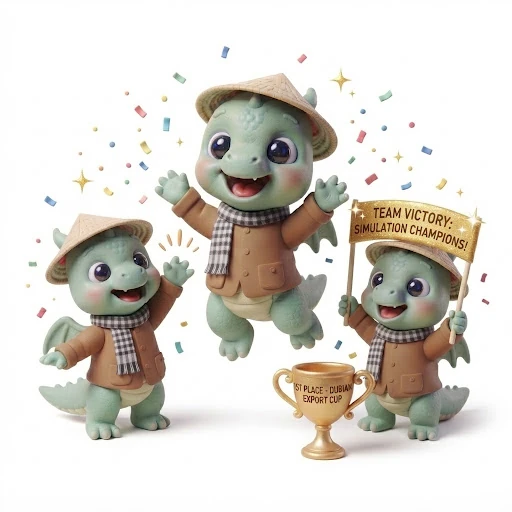
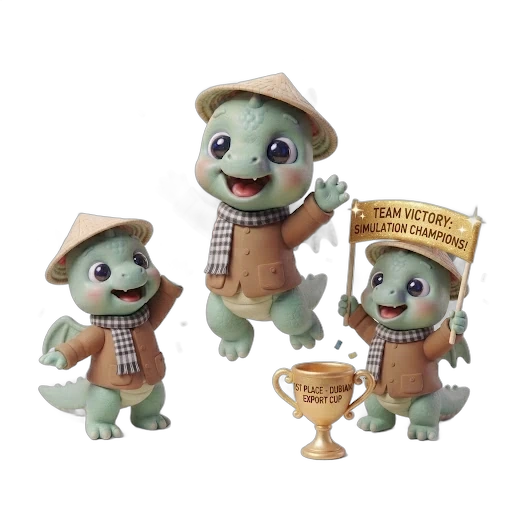
Trang chủ: khôi phục ảnh Hương và Tú Phan ở hero; nền ghe thẻ trong suốt; tách nền ảnh Tèo Soi và ghe Bến Phù Sa; sw cache bizon-v474

diff --git a/academia3d-v2.html b/academia3d-v2.html
@@ -75,7 +75,8 @@
       <div class="hp-stage" aria-hidden="true">
         <div class="hp-sun"></div>
         <div class="hp-base"></div>
-        <img src="assets/character/phu-sa/huong-tu-ghe-chonoi-v2.webp" alt="" draggable="false" style="left:20%;bottom:22%;height:66%;filter:drop-shadow(0 18px 14px rgba(110,70,30,.35));animation:bzFloat 6s ease-in-out infinite">
+        <img src="assets/character/advisors/lumina-aodai-cut.webp" alt="" draggable="false" style="left:14%;bottom:22%;height:62%;filter:drop-shadow(0 18px 14px rgba(110,70,30,.35));animation:bzFloat 6s ease-in-out infinite">
+        <img src="assets/character/anh-tu-ao-dai-welcome-cut-v2.webp" alt="" draggable="false" style="left:50%;bottom:22%;height:70%;filter:drop-shadow(0 18px 14px rgba(110,70,30,.35));animation:bzFloat 7s ease-in-out -2s infinite">
         <img src="assets/hc/stamp/vn.png" alt="" draggable="false" style="left:-6%;top:-6%;width:20%;border-radius:50%;mix-blend-mode:multiply;animation:bzRock 7s ease-in-out infinite">
         <img src="assets/hc/stamp/passport-cover.png" alt="" draggable="false" style="right:-4%;top:34%;width:30%;clip-path:inset(14% 23% 14% 23% round 9%);animation:bzFloat 5s ease-in-out -1s infinite">
       </div>
@@ -127,7 +128,7 @@
     <h2 class="hp-h2" style="max-width:18em" data-en="Learn business by making consequential decisions.">Học kinh doanh bằng những quyết định có hệ quả.</h2>
     <div class="hp-cardgrid">
       <article style="display:flex;flex-direction:column;border-radius:32px;background:var(--clay-card);padding:12px;box-shadow:inset 0 -9px 0 rgba(110,70,30,.08),inset 0 5px 0 rgba(255,255,255,.95),0 26px 36px -22px rgba(110,70,30,.5)">
-        <div id="hp-ghe-widget" style="position:relative;aspect-ratio:4/5;border-radius:24px;overflow:hidden;background:#D7ECEA;box-shadow:inset 0 -8px 0 rgba(0,0,0,.06)"></div>
+        <div id="hp-ghe-widget" style="position:relative;aspect-ratio:4/5;border-radius:24px;overflow:hidden;background:transparent;box-shadow:inset 0 -8px 0 rgba(0,0,0,.06)"></div>
         <div style="padding:16px 10px 10px;display:flex;flex-direction:column;gap:8px;flex:1">
           <div style="font-size:11px;font-weight:800;letter-spacing:.12em;color:var(--clay-accent)" data-en="TIER 1 · START HERE">BẬC 1 · BẮT ĐẦU Ở ĐÂY</div>
           <h3 style="margin:0;font-family:var(--clay-head);font-weight:800;font-size:28px;line-height:1.14">Bến Phù Sa</h3>
@@ -311,7 +312,7 @@ document.addEventListener('DOMContentLoaded', function(){
       if (!entry.isIntersecting) return;
       io.disconnect();
       import('./js/ghe-phu-sa.js').then(function(m){
-        return m.mountGhe(el, { style: '3d', autorotate: true, water: false, background: '#D7ECEA' });
+        return m.mountGhe(el, { style: '3d', autorotate: true, water: false, background: 'transparent' });
       }).catch(function(){ /* ảnh tĩnh vẫn còn sẵn trong thẻ, không cần fallback thêm */ });
     });
   }, { rootMargin: '200px' });

diff --git a/index.html b/index.html
@@ -75,7 +75,8 @@
       <div class="hp-stage" aria-hidden="true">
         <div class="hp-sun"></div>
         <div class="hp-base"></div>
-        <img src="assets/character/phu-sa/huong-tu-ghe-chonoi-v2.webp" alt="" draggable="false" style="left:20%;bottom:22%;height:66%;filter:drop-shadow(0 18px 14px rgba(110,70,30,.35));animation:bzFloat 6s ease-in-out infinite">
+        <img src="assets/character/advisors/lumina-aodai-cut.webp" alt="" draggable="false" style="left:14%;bottom:22%;height:62%;filter:drop-shadow(0 18px 14px rgba(110,70,30,.35));animation:bzFloat 6s ease-in-out infinite">
+        <img src="assets/character/anh-tu-ao-dai-welcome-cut-v2.webp" alt="" draggable="false" style="left:50%;bottom:22%;height:70%;filter:drop-shadow(0 18px 14px rgba(110,70,30,.35));animation:bzFloat 7s ease-in-out -2s infinite">
         <img src="assets/hc/stamp/vn.png" alt="" draggable="false" style="left:-6%;top:-6%;width:20%;border-radius:50%;mix-blend-mode:multiply;animation:bzRock 7s ease-in-out infinite">
         <img src="assets/hc/stamp/passport-cover.png" alt="" draggable="false" style="right:-4%;top:34%;width:30%;clip-path:inset(14% 23% 14% 23% round 9%);animation:bzFloat 5s ease-in-out -1s infinite">
       </div>
@@ -127,7 +128,7 @@
     <h2 class="hp-h2" style="max-width:18em" data-en="Learn business by making consequential decisions.">Học kinh doanh bằng những quyết định có hệ quả.</h2>
     <div class="hp-cardgrid">
       <article style="display:flex;flex-direction:column;border-radius:32px;background:var(--clay-card);padding:12px;box-shadow:inset 0 -9px 0 rgba(110,70,30,.08),inset 0 5px 0 rgba(255,255,255,.95),0 26px 36px -22px rgba(110,70,30,.5)">
-        <div id="hp-ghe-widget" style="position:relative;aspect-ratio:4/5;border-radius:24px;overflow:hidden;background:#D7ECEA;box-shadow:inset 0 -8px 0 rgba(0,0,0,.06)"></div>
+        <div id="hp-ghe-widget" style="position:relative;aspect-ratio:4/5;border-radius:24px;overflow:hidden;background:transparent;box-shadow:inset 0 -8px 0 rgba(0,0,0,.06)"></div>
         <div style="padding:16px 10px 10px;display:flex;flex-direction:column;gap:8px;flex:1">
           <div style="font-size:11px;font-weight:800;letter-spacing:.12em;color:var(--clay-accent)" data-en="TIER 1 · START HERE">BẬC 1 · BẮT ĐẦU Ở ĐÂY</div>
           <h3 style="margin:0;font-family:var(--clay-head);font-weight:800;font-size:28px;line-height:1.14">Bến Phù Sa</h3>
@@ -311,7 +312,7 @@ document.addEventListener('DOMContentLoaded', function(){
       if (!entry.isIntersecting) return;
       io.disconnect();
       import('./js/ghe-phu-sa.js').then(function(m){
-        return m.mountGhe(el, { style: '3d', autorotate: true, water: false, background: '#D7ECEA' });
+        return m.mountGhe(el, { style: '3d', autorotate: true, water: false, background: 'transparent' });
       }).catch(function(){ /* ảnh tĩnh vẫn còn sẵn trong thẻ, không cần fallback thêm */ });
     });
   }, { rootMargin: '200px' });

diff --git a/ben-phu-sa.html b/ben-phu-sa.html
@@ -128,7 +128,7 @@
   <section id="ft-intro" class="clay-card p-6">
     <!-- HERO CHỌN ĐỘI & THUYỀN TRƯỞNG — 2 cột -->
     <div class="grid sm:grid-cols-2 gap-5 mb-6" style="align-items:stretch">
-      <div class="relative overflow-hidden" style="border-radius:22px;min-height:200px;background:linear-gradient(180deg,rgba(3,51,55,.1) 0%,rgba(3,51,55,.85) 100%), url('assets/illustrations/game/ben-phu-sa-cho-noi.webp') center/cover">
+      <div class="relative overflow-hidden" style="border-radius:22px;min-height:200px;background:linear-gradient(180deg,rgba(3,51,55,.1) 0%,rgba(3,51,55,.85) 100%), url('assets/illustrations/game/ben-phu-sa-cho-noi-cut.webp') center/cover">
         <div class="absolute inset-0 flex flex-col justify-end p-5 text-white">
           <p class="text-[10px] font-extrabold uppercase text-clay-gold" style="letter-spacing:.2em" data-en="🧺 Tier 1 · Bến Phù Sa">🧺 Bậc 1 · Bến Phù Sa</p>
           <p class="text-white/80 text-xs font-semibold mt-1" data-en="Test cheap first, then scale at the right moment.">Thử rẻ trước, nhân rộng đúng lúc.</p>

diff --git a/sw.js b/sw.js
@@ -1,7 +1,7 @@
 /* BizOn Bật Nghiệp 2026 – Service Worker (offline app shell)
  * © 2026 Đỗ Thùy Hương & Phan Anh Tú. Bảo lưu mọi quyền. */
 
-const CACHE = 'bizon-v473';
+const CACHE = 'bizon-v474';
 const SHELL = [
   './',
   './index.html',
